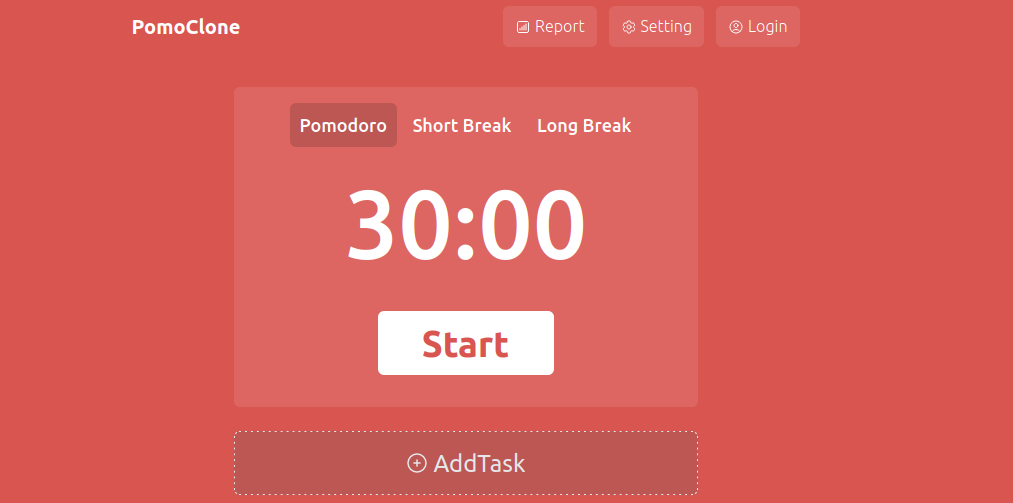
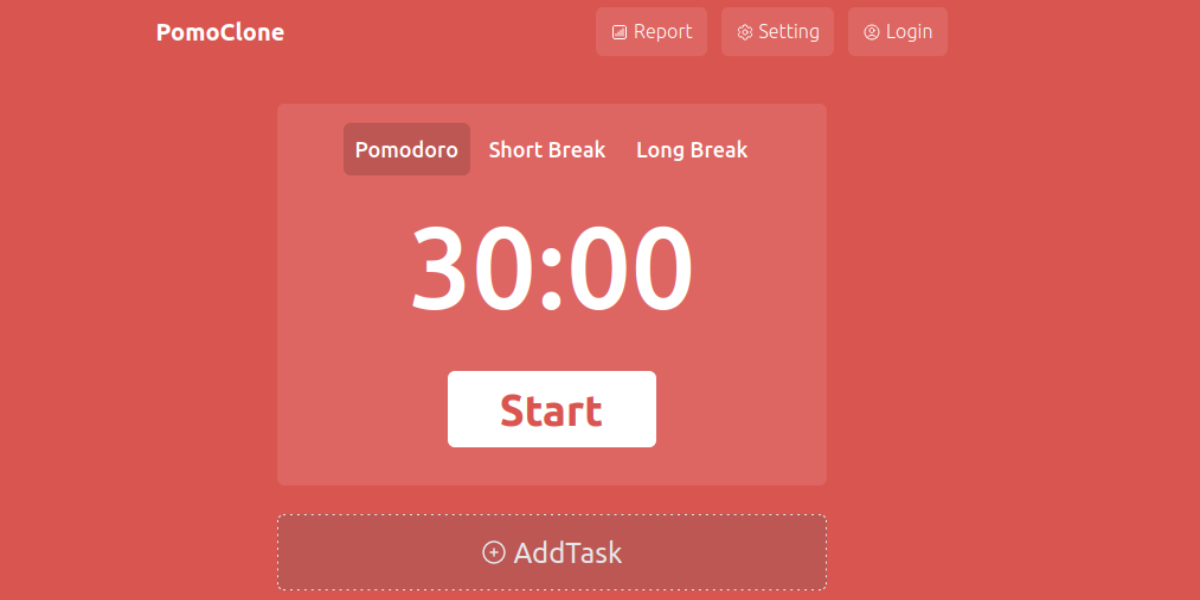
colors/styles updated

diff --git a/src/lib/components/Navbar.svelte b/src/lib/components/Navbar.svelte
@@ -16,7 +16,7 @@
 	};
 </script>
 
-<div class="grid grid-cols-8 gap-4 flex h-12 bg-primary-500 items-center">
+<div class="grid grid-cols-8 gap-4 flex h-12 bg-secondary-500 items-center">
 	<a href="/" class="col-span-3 justify-center flex space-x-1.5 flex items-center">
 		<iconify-icon
 			icon="streamline:programming-script-code-code-angle-programming-file-bracket"
@@ -26,22 +26,21 @@
 		<span class="collapse md:visible">CHILICKI</span>
 	</a>
 	<a
-		href="/skills"
-		class="btn variant-soft-primary flex h-full items-center space-x-2 [&>*]:pointer-events-none"
-		use:popup={popupSkills}
-	>
-		<iconify-icon class="text-lg" icon="clarity:list-line" />
-		<span class="collapse lg:visible">Skills</span>
-	</a>
-	<a
 		href="/projects"
-		class="btn variant-soft-primary flex h-full items-center space-x-2 [&>*]:pointer-events-none"
+		class="btn variant-ghost-secondary flex h-full items-center space-x-2 [&>*]:pointer-events-none"
 		use:popup={popupProjects}
 	>
 		<iconify-icon icon="mdi:dots-grid" class="text-lg" />
 		<span class="collapse lg:visible">Projects</span>
 	</a>
-
+	<a
+		href="/skills"
+		class="btn variant-ghost-secondary flex h-full items-center space-x-2 [&>*]:pointer-events-none"
+		use:popup={popupSkills}
+	>
+		<iconify-icon class="text-lg" icon="clarity:list-line" />
+		<span class="collapse lg:visible">Skills</span>
+	</a>
 	<div class="col-span-3 flex justify-center">
 		<LightSwitch />
 	</div>

diff --git a/tailwind.config.ts b/tailwind.config.ts
@@ -3,21 +3,21 @@ import type { Config } from 'tailwindcss'
 import { skeleton } from '@skeletonlabs/tw-plugin'
 
 export default {
-	darkMode: 'class',
-	content: ['./src/**/*.{html,js,svelte,ts}', join(require.resolve('@skeletonlabs/skeleton'), '../**/*.{html,js,svelte,ts}')],
-	theme: {
-		extend: {},
-	},
-	plugins: [
-		skeleton({
-			themes: {
-				preset: [
-					{
-						name: 'skeleton',
-						enhancements: true,
-					},
-				],
-			},
-		}),
-	],
+    darkMode: 'class',
+    content: ['./src/**/*.{html,js,svelte,ts}', join(require.resolve('@skeletonlabs/skeleton'), '../**/*.{html,js,svelte,ts}')],
+    theme: {
+        extend: {},
+    },
+    plugins: [
+        skeleton({
+            themes: {
+                preset: [
+                    {
+                        name: 'crimson',
+                        enhancements: true,
+                    },
+                ],
+            },
+        }),
+    ],
 } satisfies Config;

diff --git a/src/routes/skills/+page.svelte b/src/routes/skills/+page.svelte
@@ -21,13 +21,15 @@
 <div class="flex flex-col flex-1 items-center justify-center py-5">
 	<div class="py-3 flex flex-col items-center">
 		<div class="text-5xl">What I Use.</div>
-		<div class="font-thin">Items in no particular order. Some smaller items were left off.</div>
+		<div class="font-thin">
+			Items are in no specific order. Some smaller technologies have been left off.
+		</div>
 	</div>
 	<div class="flex flex-wrap max-w-4xl justify-center items-center gap-5">
 		{#each skills as item}
 			<div
 				title={item.name}
-				class="card h-48 w-48 flex flex-col items-center space-y-3 justify-center"
+				class="card card-hover shadow-sm hover:shadow-md shadow-surface-500 hover:shadow-surface-500 dark:shadow-surface-300 hover:shadow-surface-300 h-48 w-48 flex flex-col items-center space-y-3 justify-center"
 			>
 				<iconify-icon class="text-8xl" icon={item.icon} />
 				<span>{item.name}</span>

diff --git a/src/lib/components/ProjectCard.svelte b/src/lib/components/ProjectCard.svelte
@@ -2,8 +2,10 @@
 	export let info: any;
 </script>
 
-<div class="card w-80 md:w-96 h-96">
-	<img src={info.img} alt="Pezdel.com" class="flex w-full rounded-t-lg" />
+<div
+	class="card card-hover shadow-sm hover:shadow-md shadow-surface-500 hover:shadow-surface-500 dark:shadow-surface-300 hover:shadow-surface-300 w-80 md:w-96 h-96"
+>
+	<img src={info.img} alt="Pezdel.com" class="flex w-full rounded-t-3xl" />
 	<div class="space-y-4 p-4">
 		<div class="flex justify-between items-center border-b-2">
 			<div class="text-3xl">
@@ -15,7 +17,7 @@
 				</a>
 			{/if}
 		</div>
-		<div class="h-12">
+		<div class="h-11">
 			{info.details}
 		</div>
 		<div class="space-y-1 font-thin">

diff --git a/src/lib/utils.ts b/src/lib/utils.ts
@@ -21,7 +21,7 @@ export const skills: Skills[] = [
 ];
 
 
-import pezdelImg from '$lib/static/spuy4.png';
+import pezdelImg from '$lib/static/pezdel.png';
 export const pezdelInfo = {
     img: pezdelImg,
     name: 'Pezdel.com',
@@ -50,8 +50,9 @@ export const pomoInfo = {
     ]
 };
 
+import portfolioImg from '$lib/static/portfolio.png';
 export const portfolioInfo = {
-    img: pomoImg,
+    img: portfolioImg,
     name: 'Portfolio',
     link: '/',
     github: 'https://github.com/pezdel/portfolio',

diff --git a/src/routes/projects/+page.svelte b/src/routes/projects/+page.svelte
@@ -9,7 +9,7 @@
 >
 	<div class="py-5 flex flex-col items-center">
 		<div class="text-5xl">What I've Made.</div>
-		<div class="font-thin">Pezdel.com being the most complex</div>
+		<div class="font-thin">Pezdel.com being the most complex.</div>
 	</div>
 	<section class="flex flex-wrap gap-7 items-center flex-col lg:flex-row md:justify-center">
 		<ProjectCard info={pezdelInfo} />

diff --git a/src/app.html b/src/app.html
@@ -6,7 +6,7 @@
 		<meta name="viewport" content="width=device-width" />
 		%sveltekit.head%
 	</head>
-	<body data-sveltekit-preload-data="hover" data-theme="skeleton">
+	<body data-sveltekit-preload-data="hover" data-theme="crimson">
 		<div style="display: contents">%sveltekit.body%</div>
 	</body>
 </html>
